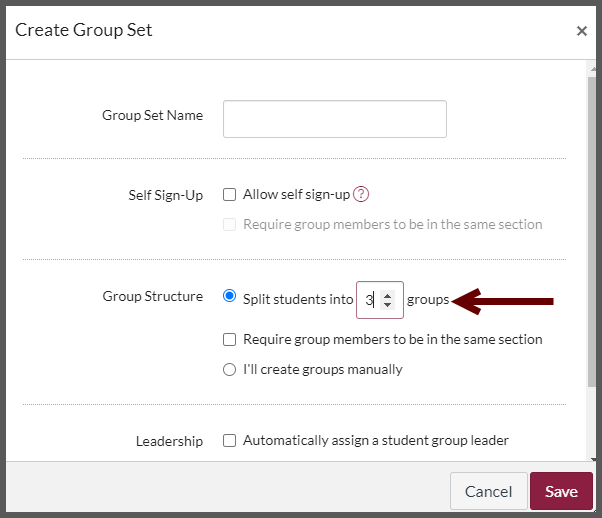
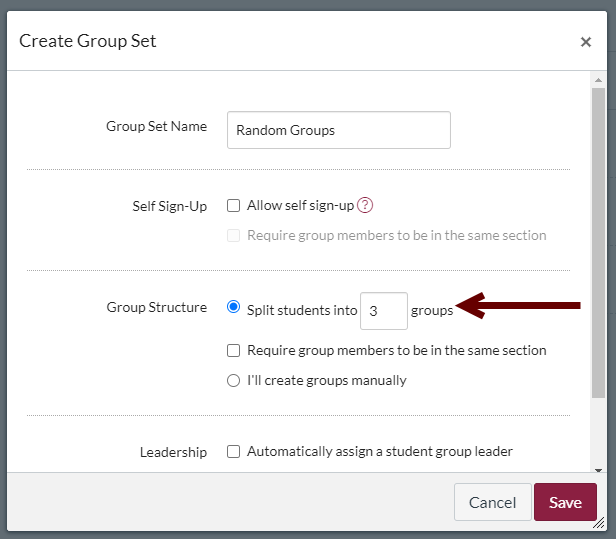
Correcting random image

Changed region(s): [[0.0, 0.0, 1.0, 1.0], [0.1495, 0.1853, 0.7475, 0.278], [0.2093, 0.3707, 0.897, 0.4633]]

diff --git a/archives/2019-11-forming-groups-online.html b/archives/2019-11-forming-groups-online.html
@@ -79,8 +79,8 @@
 <dt>Group Randomly</dt>
 	<dd>This strategy automatically arranges students without any particular organizing principle. It can work well for situations where students need have no similar characteristics.  In fully online courses,  random groups may complicate connection, as students will not no similarities (other than being in the same course). <br>
 	  <br>
-	  In Canvas, use the options in the <em>Group Structure</em> section of the <em>Create Group Set</em> dialog (shown in the screenshot above) to set up as many groups as you want. Canvas will randomly sort all students into the indicated number of groups.<br>
-	  <img src="../images/random-groups.png" width="409" height="352" alt="Random"><br>
+	  In Canvas, use the options in the <em>Group Structure</em> section of the <em>Create Group Set</em> dialog (shown in the screenshot below) to set up as many groups as you want. Canvas will randomly sort all students into the indicated number of groups.<br>
+	  <img src="../images/random-groups.png" width="413" height="361" alt="Random"><br>
 	  <a href="../images/random-groups.png" target="_blank">Click for full-size image</a><br />
 	</dd>
 <dt>Group by Subject Area, Major, and/or College</dt>
